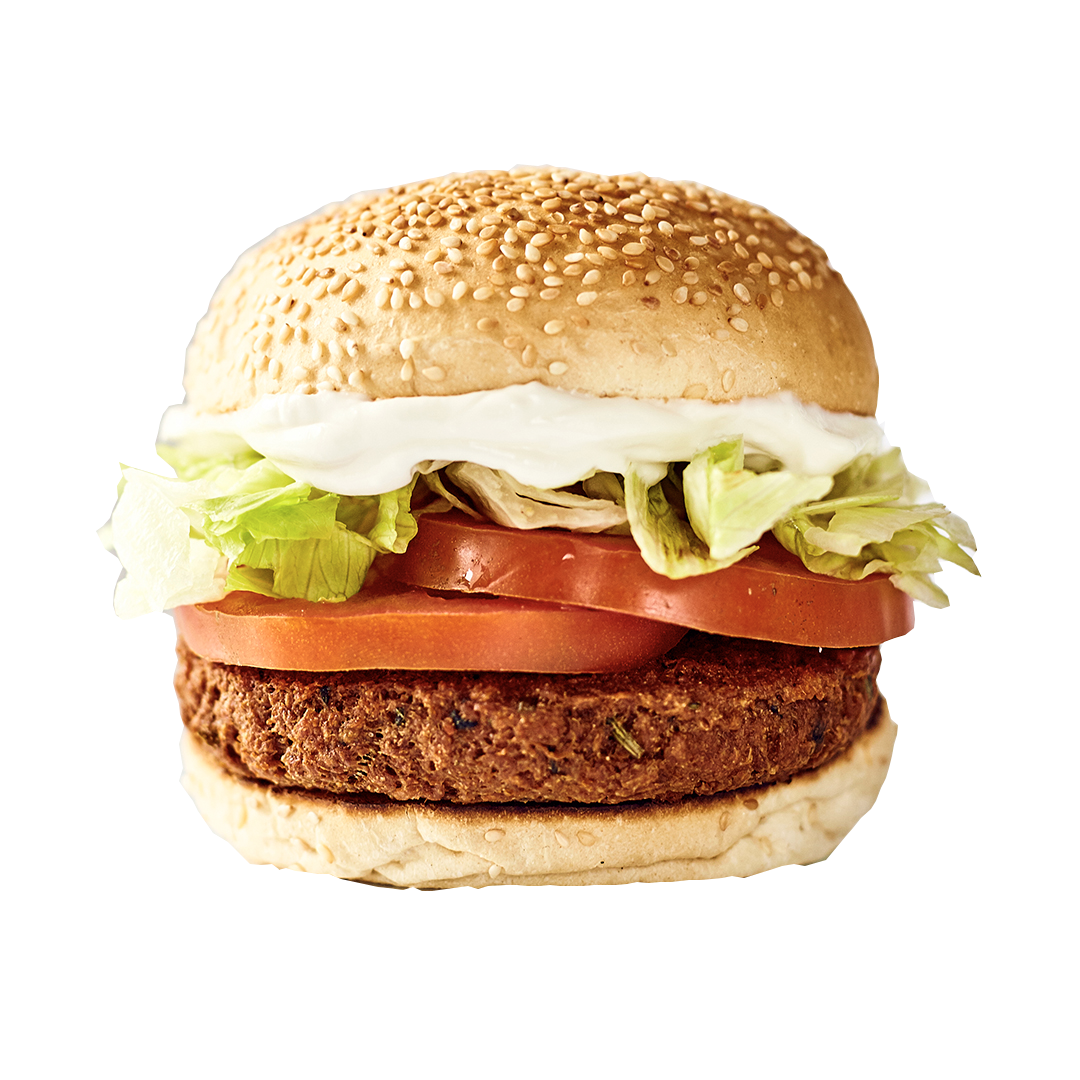
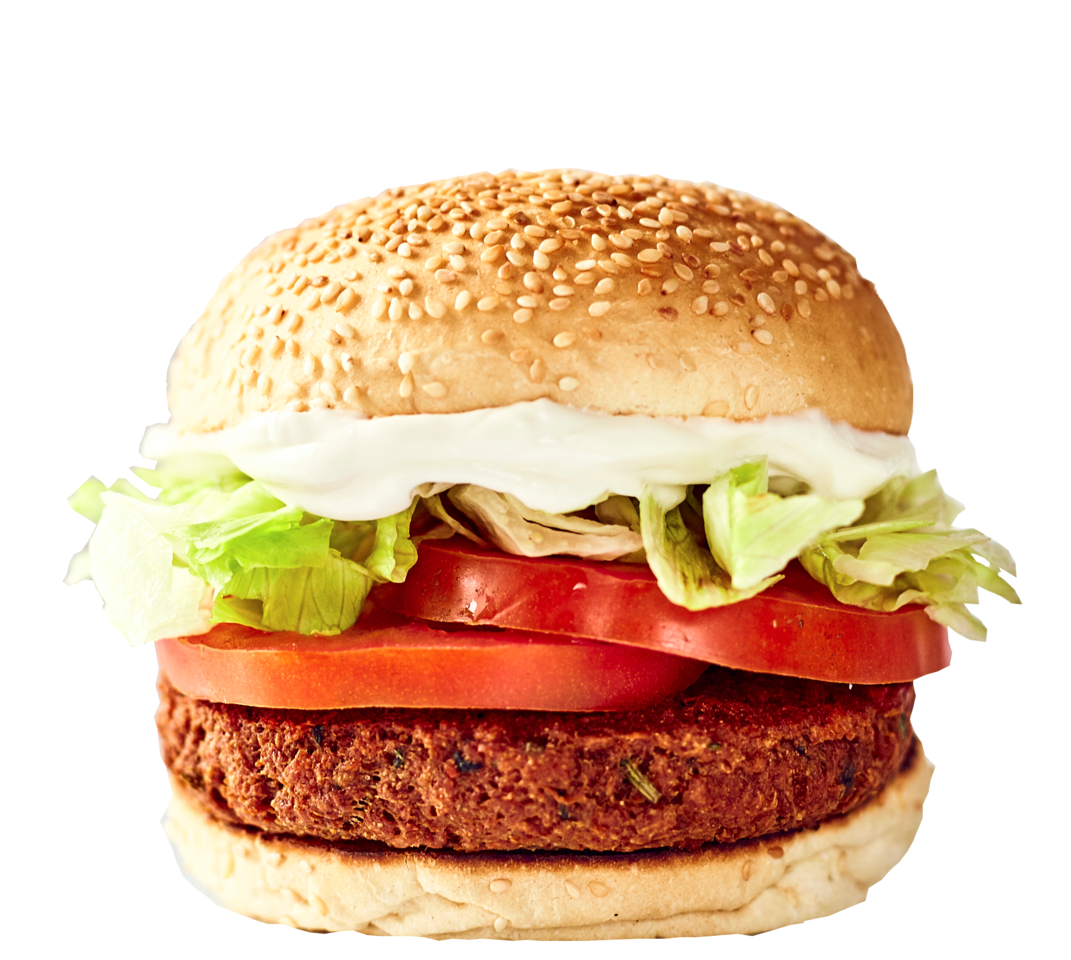
add cut/resize photos

diff --git a/static/css/creative.css b/static/css/creative.css
@@ -592,7 +592,7 @@ img::-moz-selection {
     display:inline-block;
     overflow:hidden;
     width: 100%;
-    pointer-events: none;
+    /* pointer-events: none; */
 }
 
 #location iframe {
